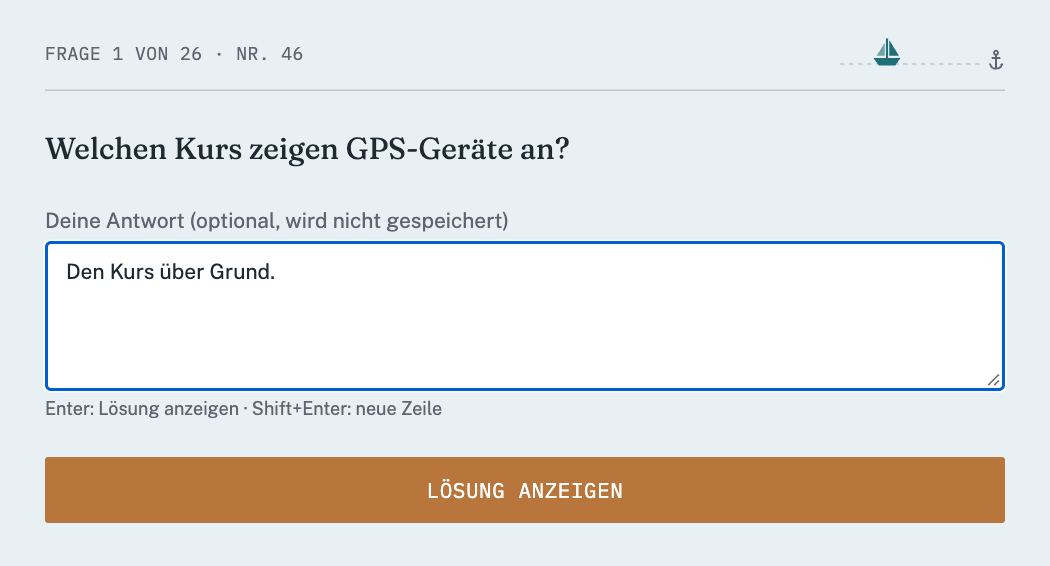
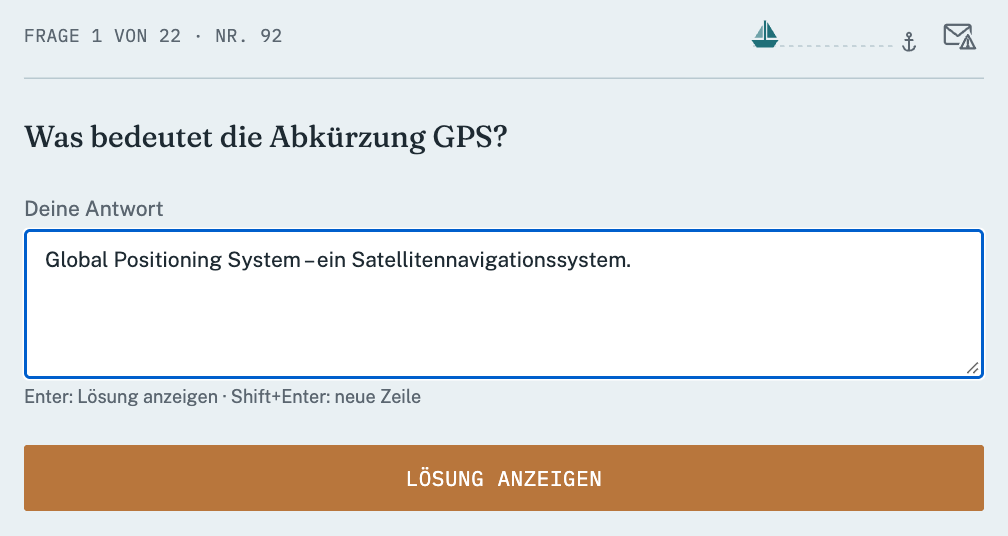
Update landing page: remove beta/speech notices, new screenshots (#128)

diff --git a/frontend/src/pages/LandingPage.tsx b/frontend/src/pages/LandingPage.tsx
@@ -26,7 +26,7 @@ const PLANS = [
     kicker: 'Erweiterung · demnächst',
     title: 'KI-Bewertung',
     icon: <AnswerIcon className="h-16 w-16" />,
-    text: 'Schreib oder sprich deine Antwort und erhalte eine Bewertung mit Erklärung, was gefehlt hat.',
+    text: 'Lass deine Antwort vom Lotsen prüfen und erhalte einen Bewertungsvorschlag mit Erklärung, was gefehlt hat.',
   },
   {
     kicker: 'Erweiterung · demnächst',
@@ -41,27 +41,36 @@ const PLANS = [
 const SCREENSHOTS = [
   {
     src: '/screenshots/frage-beantworten.png',
-    width: 1050,
-    height: 566,
+    width: 1008,
+    height: 536,
     title: '1. Frage beantworten',
     text: 'Eine Frage aus dem Katalog, dazu ein optionales Notizfeld für deine Antwort – sie wird nicht gespeichert.',
-    alt: 'Screenshot: Die Frage „Welchen Kurs zeigen GPS-Geräte an?“ mit ausgefülltem Antwortfeld und der Schaltfläche „Lösung anzeigen“.',
+    alt: 'Screenshot: Die Frage „Was bedeutet die Abkürzung GPS?“ mit ausgefülltem Antwortfeld und der Schaltfläche „Lösung anzeigen“.',
     wide: false,
   },
   {
     src: '/screenshots/selbst-bewerten.png',
-    width: 1050,
-    height: 779,
-    title: '2. Vergleichen und bewerten',
-    text: 'Neben deiner Antwort steht die amtliche Musterantwort. Du bewertest selbst: richtig, teilweise richtig oder falsch.',
-    alt: 'Screenshot: Deine Antwort neben der amtlichen Antwort „Den Kurs über Grund (KüG)“, darunter die Auswahl Richtig, Teilweise Richtig, Falsch.',
+    width: 1008,
+    height: 494,
+    title: '2. Mit der Musterantwort vergleichen',
+    text: 'Neben deiner Antwort steht die amtliche Musterantwort – so siehst du direkt, was gefehlt hat.',
+    alt: 'Screenshot: Deine Antwort zur Frage „Was bedeutet die Abkürzung GPS?“ neben der amtlichen Antwort „Global Positioning System“.',
+    wide: false,
+  },
+  {
+    src: '/screenshots/ki-bewertung.png',
+    width: 1008,
+    height: 441,
+    title: '3. Selbst bewerten – KI-Prüfung demnächst',
+    text: 'Du bewertest dich selbst: richtig, teilweise richtig oder falsch. Die KI-Prüfung, die dir eine Bewertung vorschlägt, ist demnächst verfügbar.',
+    alt: 'Screenshot: Auswahl Richtig, Teilweise Richtig, Falsch und darunter die abgeblendete Schaltfläche „Antwort vom Lotsen bewerten lassen“ mit dem Hinweis „bald verfügbar“ und einem KI-Band.',
     wide: false,
   },
   {
     src: '/screenshots/lernstand.png',
-    width: 1344,
-    height: 1274,
-    title: '3. Lernstand und Fokus',
+    width: 1392,
+    height: 1170,
+    title: '4. Lernstand und Fokus',
     text: 'Gesamtfortschritt und Verteilung nach Fachgebieten. Markiere Themen als Fokus und sieh, wie viele Fragen du sicher oder teilweise gelernt hast.',
     alt: 'Screenshot: Übersicht Lernen mit Gesamtfortschritt in Prozent, einem Kreisdiagramm der Fachgebiete, der Auswahl der Prüfungsvariante und dem Fokus-Bereich mit drei markierten Themen und ihrem Lernstand.',
     wide: true,
@@ -145,9 +154,6 @@ export function LandingPage() {
             <p className="mt-8 text-lg tracking-wide text-surface-alt uppercase sm:text-xl">
               Online für die SKS-Theorieprüfung lernen – mit den Originalfragen des amtlichen Katalogs
             </p>
-            <p className="mt-6 text-sm text-surface-alt">
-              Beta-Version: SKS Lotse wird gerade aufgebaut – KI-Bewertung und Spracheingabe folgen.
-            </p>
             {isAuthenticated ? (
               <Link to="/start" className={HERO_CTA}>
                 Jetzt loslegen
@@ -206,7 +212,7 @@ export function LandingPage() {
         <section className={`${CONTENT} py-16`}>
           <h2 className="font-serif text-3xl text-primary">Ein Blick in die App</h2>
           <p className="mt-3 max-w-xl text-sm text-ink-soft">
-            So sieht das Lernen in SKS Lotse aus – Screenshots der Beta-Version.
+            So sieht das Lernen in SKS Lotse aus – Screenshots aus der App.
           </p>
           <ScreenshotList items={SCREENSHOTS} className="mt-10" />
 

diff --git a/frontend/src/pages/LandingPage.test.tsx b/frontend/src/pages/LandingPage.test.tsx
@@ -60,10 +60,11 @@ describe('LandingPage', () => {
     expect(screen.getByRole('heading', { name: 'Werbefrei' })).toBeInTheDocument()
   })
 
-  it('flags the app as a beta with the features still to come', () => {
+  it('shows no beta or speech-input notice', () => {
     renderLandingPage()
 
-    expect(screen.getByText(/KI-Bewertung und Spracheingabe folgen/)).toBeInTheDocument()
+    expect(screen.queryByText(/Beta/)).not.toBeInTheDocument()
+    expect(screen.queryByText(/Spracheingabe|sprich/)).not.toBeInTheDocument()
   })
 
   it('shows screenshots of the app, each with a description', () => {
@@ -72,7 +73,7 @@ describe('LandingPage', () => {
     expect(screen.getByRole('heading', { name: 'Ein Blick in die App' })).toBeInTheDocument()
     expect(screen.getByRole('heading', { name: 'Prüfungssimulation' })).toBeInTheDocument()
     const images = screen.getAllByRole('img', { name: /^Screenshot:/ })
-    expect(images).toHaveLength(6)
+    expect(images).toHaveLength(7)
     for (const image of images) {
       expect(image).toHaveAttribute('src', expect.stringMatching(/^\/screenshots\/.+\.png$/))
       expect(image).toHaveAttribute('width')

diff --git a/frontend/src/components/Header.tsx b/frontend/src/components/Header.tsx
@@ -24,12 +24,6 @@ export function Header({ homeTo = '/', nav }: HeaderProps) {
           <Link to={homeTo} aria-label="SKS Lotse – Startseite">
             <Logo inverted />
           </Link>
-          <span
-            className="border border-surface-alt px-1.5 py-0.5 font-mono text-[10px] tracking-wide text-surface-alt uppercase"
-            title="Beta-Version: SKS Lotse wird gerade aufgebaut."
-          >
-            Beta
-          </span>
         </div>
         {nav === undefined ? (
           <Link to="/login" className={HEADER_LINK}>

diff --git a/frontend/src/components/Header.test.tsx b/frontend/src/components/Header.test.tsx
@@ -15,14 +15,4 @@ describe('Header', () => {
     expect(screen.getByRole('link', { name: 'SKS Lotse – Startseite' })).toHaveAttribute('href', '/')
     expect(screen.getByRole('link', { name: 'Anmelden' })).toHaveAttribute('href', '/login')
   })
-
-  it('marks the app as a beta version', () => {
-    render(
-      <MemoryRouter>
-        <Header />
-      </MemoryRouter>,
-    )
-
-    expect(screen.getByTitle(/Beta-Version/)).toHaveTextContent('Beta')
-  })
 })
